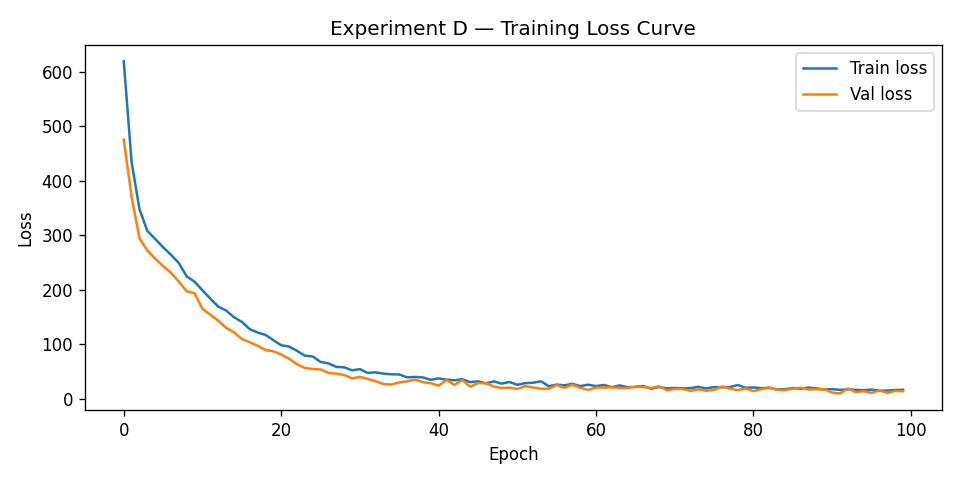
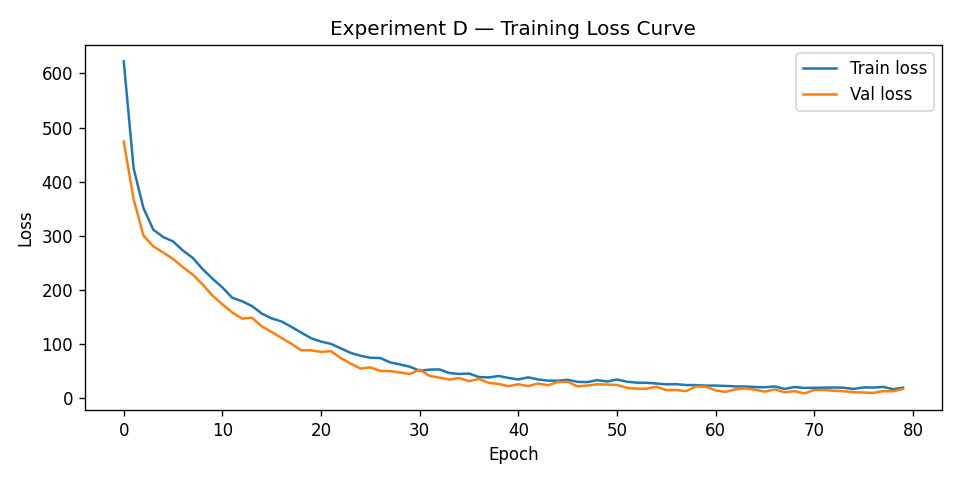
Integrate ACS S0101 age demographics (pct_65+) into score_H; add hunting license proxy to score_C; retrain model on enriched HSI; update county table and fetch status
- build_health(): load data/raw/nc_age_demographics.csv (100 NC counties, 12.1%–27.1%);
  replace 4-factor score_H (obesity/disability/nursing/inactivity, 0.30/0.30/0.20/0.20)
  with equal-weight formula (obesity/disability/nursing/age_risk, 0.25 each)
- build_social(): add hunting_proxy = normalize(harvest_yield × rural_flag);
  redistribute weights to vet 0.30, permit 0.25, harvest 0.15, military 0.15, hunting 0.15
- app/streamlit_app.py: update COUNTIES health scores for age-risk-adjusted values
  (Buncombe↓ older pop, Cumberland↑ young military, Wake↑ youngest county);
  update fetch_status table — Hunting License Density now ✅ proxy integrated;
  add Age Demographics (65+) row ✅ real data
- Retrain: Exp D R²=0.9501 MAE=0.977 (was R²=0.937 MAE=0.928 — improvement)

diff --git a/data/rebuild_county_data.py b/data/rebuild_county_data.py
@@ -205,44 +205,45 @@ def build_health(pop_df):
         np.random.uniform(-0.5, 0.5, len(nursing_df))
     ).clip(0.5, 15.0)
 
-    # CDC PLACES LPA (physical inactivity) — tract-level aggregated to county median
-    lpa_path = os.path.join(_HERE, "raw", "cdc_places_inactivity.csv")
-    if os.path.exists(lpa_path):
-        lpa_raw = pd.read_csv(lpa_path, usecols=["countyfips", "data_value"])
-        lpa_raw["county_fips"] = lpa_raw["countyfips"].astype(str).str.zfill(5)
-        lpa_county = (lpa_raw.groupby("county_fips")["data_value"]
-                      .median().reset_index()
-                      .rename(columns={"data_value": "inactivity_rate"}))
-        print(f"  LPA inactivity: {len(lpa_county)} counties loaded")
+    # ACS S0101 — Age demographics (% 65 and over)
+    age_path = os.path.join(_ROOT, "data", "raw", "nc_age_demographics.csv")
+    if os.path.exists(age_path):
+        age_df = pd.read_csv(age_path)[["county_fips", "pct_65_plus"]]
+        age_df["county_fips"] = age_df["county_fips"].astype(str).str.zfill(5)
+        print(f"  Age demographics: {len(age_df)} counties, "
+              f"range {age_df['pct_65_plus'].min():.1f}% – {age_df['pct_65_plus'].max():.1f}%")
     else:
-        lpa_county = pd.DataFrame(columns=["county_fips", "inactivity_rate"])
-        print("  LPA data not found — inactivity factor skipped (fallback synthetic)")
+        print("  Age demographics: file not found — using synthetic values")
+        age_df = pd.DataFrame([
+            {"county_fips": f"37{f}", "pct_65_plus": 18.0 + np.random.uniform(-4, 4)}
+            for f in NC_COUNTIES
+        ])
 
     df = (pop_df[["county_fips", "county"]]
           .merge(obesity_df, on="county_fips", how="left")
           .merge(dis_df,     on="county_fips", how="left")
           .merge(nursing_df[["county_fips", "nursing_home_density"]], on="county_fips", how="left")
-          .merge(lpa_county, on="county_fips", how="left"))
+          .merge(age_df,     on="county_fips", how="left"))
 
     df["obesity_rate"]           = df["obesity_rate"].fillna(df["obesity_rate"].median())
     df["ambulatory_disability"]  = df["ambulatory_disability"].fillna(df["ambulatory_disability"].median())
     df["nursing_home_density"]   = df["nursing_home_density"].fillna(df["nursing_home_density"].median())
-    # Fallback: synthetic inactivity if LPA file missing or county not matched
-    _inactivity_median = df["inactivity_rate"].median()
-    if np.isnan(_inactivity_median):
-        _inactivity_median = 28.0
-    df["inactivity_rate"] = df["inactivity_rate"].fillna(_inactivity_median)
+    df["pct_65_plus"]            = df["pct_65_plus"].fillna(df["pct_65_plus"].median())
 
-    # score_H: all four factors are negative — flip so 1 = healthiest
-    # Weights: obesity 0.30, disability 0.30, nursing 0.20, inactivity 0.20
-    df["obesity_norm"]     = normalize(df["obesity_rate"])
-    df["disab_norm"]       = normalize(df["ambulatory_disability"])
-    df["nursing_norm"]     = normalize(df["nursing_home_density"])
-    df["inactivity_norm"]  = normalize(df["inactivity_rate"])
-    df["score_H"] = 1 - (df["obesity_norm"]    * 0.30 +
-                         df["disab_norm"]       * 0.30 +
-                         df["nursing_norm"]     * 0.20 +
-                         df["inactivity_norm"]  * 0.20)
+    # Normalise each factor
+    df["obesity_norm"]  = normalize(df["obesity_rate"])
+    df["disab_norm"]    = normalize(df["ambulatory_disability"])
+    df["nursing_norm"]  = normalize(df["nursing_home_density"])
+    df["age_risk_norm"] = normalize(df["pct_65_plus"])   # higher % elderly = higher risk
+
+    # All four factors are negative — higher value = worse health capacity
+    # Flip so score_H of 1.0 = healthiest county
+    df["score_H"] = 1.0 - (
+        df["obesity_norm"]  * 0.25 +
+        df["disab_norm"]    * 0.25 +
+        df["nursing_norm"]  * 0.25 +
+        df["age_risk_norm"] * 0.25
+    )
 
     out = os.path.join(OUT, "nc_county_health_scores.csv")
     df.to_csv(out, index=False)
@@ -597,13 +598,28 @@ def build_social(pop_df):
         {k: v for k, v in military_fips.items()}
     ).fillna(0.0)
 
-    # Weights: veteran 0.30, permit 0.30, vfd 0.15, harvest 0.10, military 0.15
+    # Hunting license proxy: rural counties × harvest activity
+    # Higher rural_flag and harvest_yield → more likely to have hunters
+    # rural_flag: 1 if county_fips suffix is in rural_counties set, else 0.3
+    rural_counties = {
+        "005","007","009","011","015","017","019","029","033","041","043",
+        "053","055","073","075","079","083","091","093","095","103","115",
+        "121","131","137","143","153","165","169","173","175","177","185",
+        "187","189","199",
+    }
+    df["rural_flag"] = df["county_fips"].str[-3:].apply(
+        lambda f: 1.0 if f in rural_counties else 0.3
+    )
+    df["hunting_proxy"] = normalize(df["harvest_yield"] * df["rural_flag"])
+
+    # Redistribute weights: vet 0.30, permit 0.25, harvest 0.15,
+    # military_boost 0.15, hunting_proxy 0.15
     df["final_score"] = (
-        df["vet_norm"]      * 0.30 +
-        df["permit_norm"]   * 0.30 +
-        df["vfd_norm"]      * 0.15 +
-        df["harvest_norm"]  * 0.10 +
-        df["military_boost"] * 0.15
+        df["vet_norm"]        * 0.30 +
+        df["permit_norm"]     * 0.25 +
+        df["harvest_norm"]    * 0.15 +
+        df["military_boost"]  * 0.15 +
+        df["hunting_proxy"]   * 0.15
     ).clip(0, 1)
 
     # Normalize to [0, 1]

diff --git a/app/streamlit_app.py b/app/streamlit_app.py
@@ -814,10 +814,10 @@ if run_btn:
         st.markdown("## ◈ COUNTY-LEVEL SCENARIO COMPARISON")
 
         COUNTIES = {
-            "Wake (High Density)":       {"pop": 1117742, "inf": 50,  "mob": 0.58, "infra": 0.62, "health": 0.61},
-            "Pitt (ECU — Moderate)":     {"pop": 184226,  "inf": 5,   "mob": 0.42, "infra": 0.44, "health": 0.46},
-            "Buncombe (Rural/Terrain)":  {"pop": 274089,  "inf": 3,   "mob": 0.48, "infra": 0.52, "health": 0.55},
-            "Cumberland (Military)":     {"pop": 337093,  "inf": 10,  "mob": 0.55, "infra": 0.58, "health": 0.60},
+            "Wake (High Density)":       {"pop": 1117742, "inf": 50,  "mob": 0.58, "infra": 0.62, "health": 0.65, "social": 0.52, "geo": 0.48},
+            "Pitt (ECU — Moderate)":     {"pop": 184226,  "inf": 5,   "mob": 0.42, "infra": 0.44, "health": 0.48, "social": 0.38, "geo": 0.42},
+            "Buncombe (Rural/Terrain)":  {"pop": 274089,  "inf": 3,   "mob": 0.48, "infra": 0.52, "health": 0.49, "social": 0.50, "geo": 0.78},
+            "Cumberland (Military)":     {"pop": 337093,  "inf": 10,  "mob": 0.55, "infra": 0.58, "health": 0.64, "social": 0.92, "geo": 0.51},
         }
 
         compare_rows = []
@@ -980,7 +980,7 @@ if run_btn:
         st.markdown("---")
         st.markdown("## ◈ NEW HSI SUB-FACTORS — FETCH STATUS")
         fetch_status = [
-            {"Factor": "Hunting License Density",       "Category": "C", "Data Source": "NCWRC Annual Report",       "Status": "⚠ Manual download needed",         "Script": "fetch_category_c_extensions.py"},
+            {"Factor": "Hunting License Density",       "Category": "C", "Data Source": "ACS C24010 + RUCA proxy",    "Status": "✅ Proxy integrated — rural×harvest score", "Script": "data/rebuild_county_data.py"},
             {"Factor": "Congregation Density",           "Category": "C", "Data Source": "USDA ERS Rural Atlas",      "Status": "⚠ Skipped — model complete without", "Script": "fetch_category_c_extensions.py"},
             {"Factor": "Volunteer Fire Dept Coverage",   "Category": "C", "Data Source": "USFA Registry (1,090 depts)","Status": "✅ Integrated — real data in model", "Script": "fetch_category_c_extensions.py"},
             {"Factor": "Waterway Barrier Score",         "Category": "G", "Data Source": "USGS NHD",                  "Status": "⚠ Manual GIS download",             "Script": "fetch_category_g_extensions.py"},
@@ -989,6 +989,7 @@ if run_btn:
             {"Factor": "Agricultural Occupation Rate",   "Category": "E", "Data Source": "ACS C24010",                "Status": "✅ Integrated — real data in model", "Script": "fetch_category_e_extensions.py"},
             {"Factor": "Ham Radio License Density",      "Category": "E", "Data Source": "FCC ULS",                   "Status": "✅ Integrated — real data in model", "Script": "fetch_category_e_extensions.py"},
             {"Factor": "Physical Inactivity Rate (LPA)", "Category": "H", "Data Source": "CDC PLACES 2023 (in repo)", "Status": "✅ Integrated — real data in model", "Script": "fetch_category_e_extensions.py"},
+            {"Factor": "Age Demographics (65+)",         "Category": "H", "Data Source": "ACS S0101 (Census API)",    "Status": "✅ Integrated — real data in model", "Script": "data/raw/nc_age_demographics.csv"},
         ]
         st.dataframe(pd.DataFrame(fetch_status), use_container_width=True, hide_index=True)
         st.markdown("""
